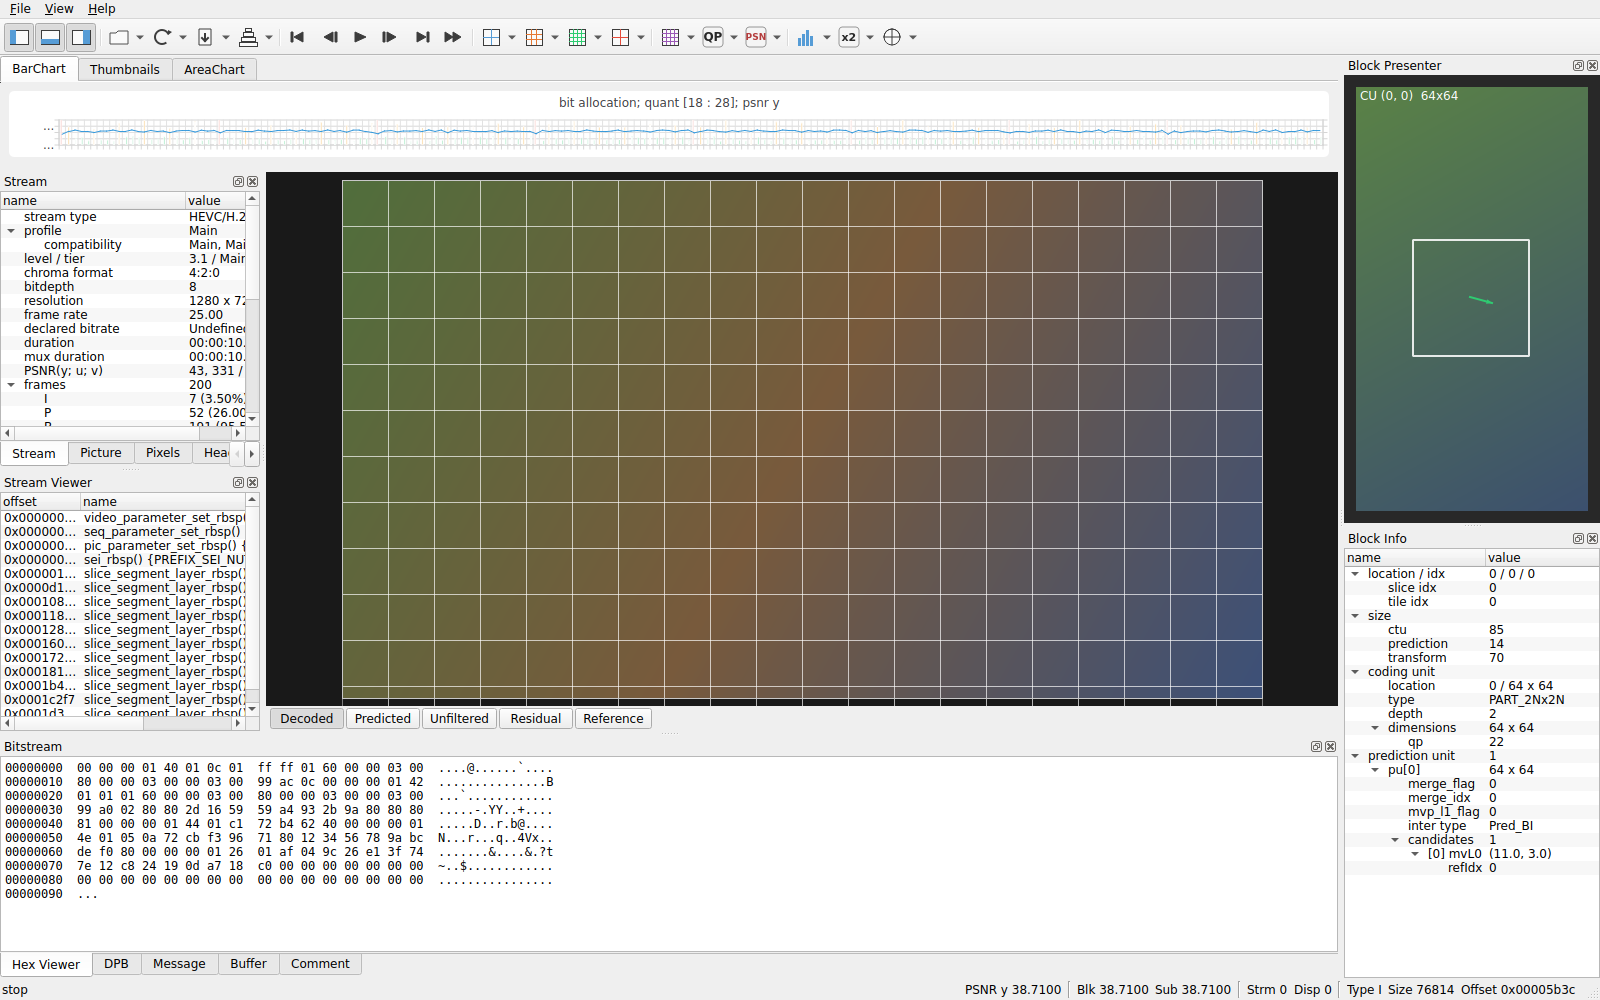
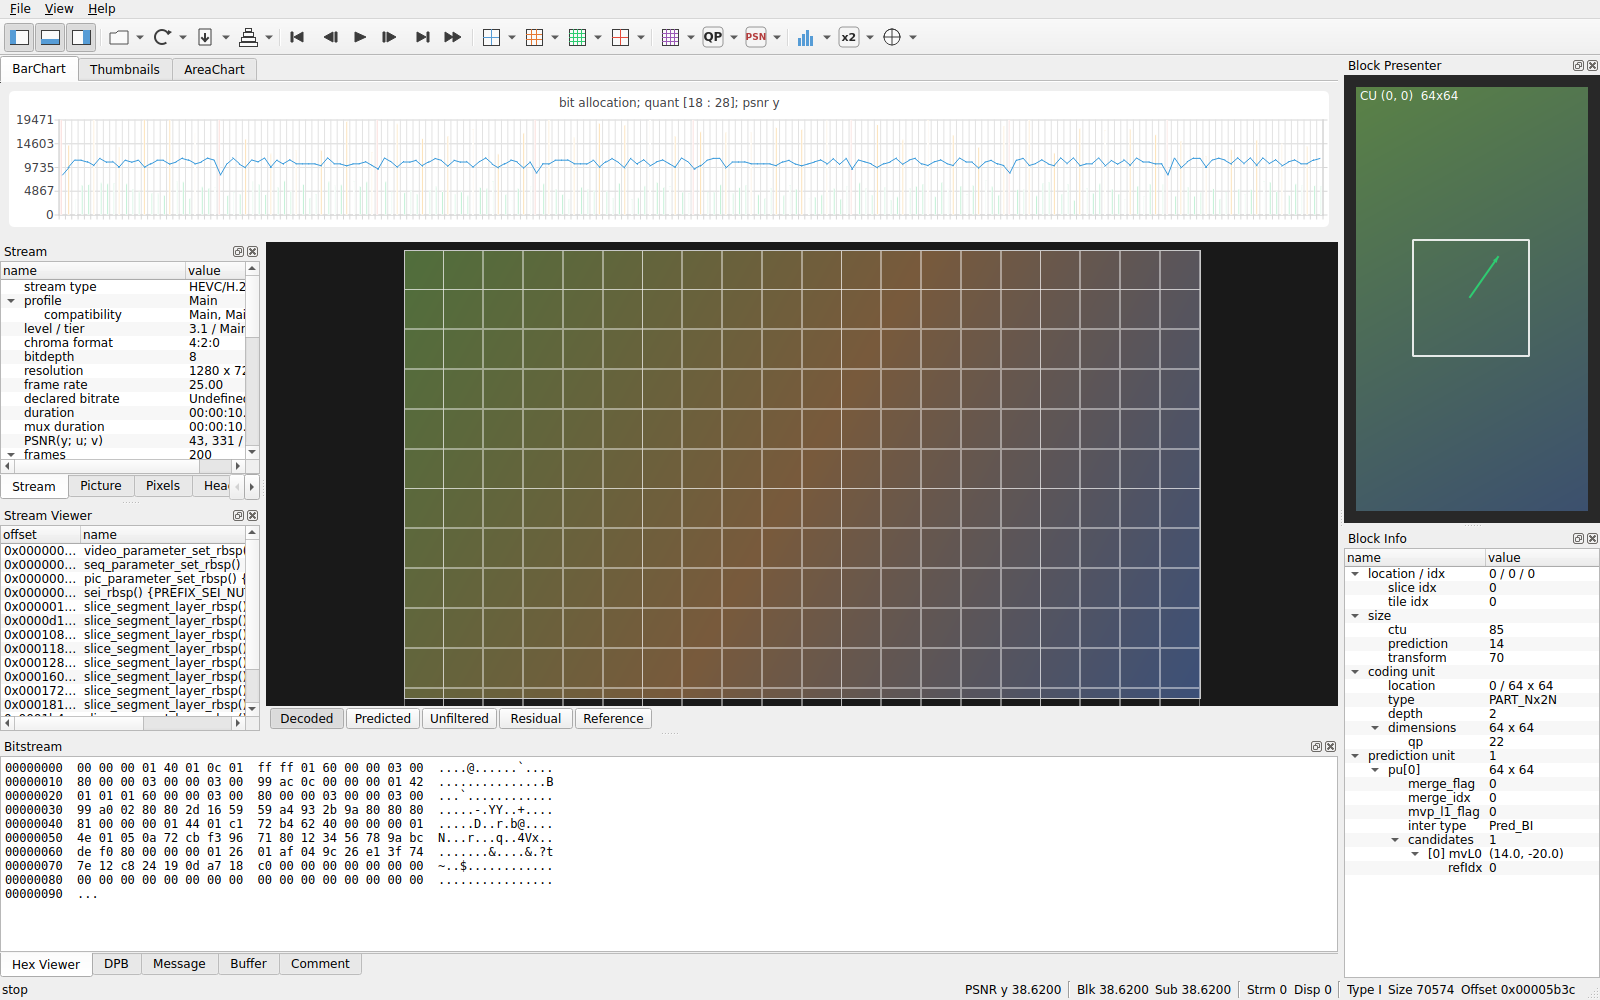
Restore chart dock to 180 px so Y-axis labels render
Previously the dock was clamped to 110 px, which left no room for the
QtCharts Y-axis labels — they collapsed to "..." after the Y range
was clipped to (0, maxSize/4). Bump the fixed height to 180 px so the
0 / 5235 / 10472 / 15707 / 20943 ticks render cleanly while still
keeping the chart strip much smaller than the rest of the window.

https://claude.ai/code/session_01Fk599Kxe4RL25fwFBHgwYp

Changed region(s): [[0.0, 0.093, 0.8438, 0.713], [0.9375, 0.837, 0.9688, 0.868], [0.9375, 0.682, 0.9688, 0.713]]

diff --git a/src/MainWindow.cpp b/src/MainWindow.cpp
@@ -96,14 +96,14 @@ void MainWindow::setupDocks() {
     chartDock->setFeatures(QDockWidget::NoDockWidgetFeatures);
     chartDock->setTitleBarWidget(new QWidget(chartDock));   // hide title bar
     m_chartTabs = new ChartTabWidget(&m_data, chartDock);
-    m_chartTabs->setFixedHeight(110);
+    m_chartTabs->setFixedHeight(180);
     chartDock->setWidget(m_chartTabs);
     chartDock->setAllowedAreas(Qt::TopDockWidgetArea);
     addDockWidget(Qt::TopDockWidgetArea, chartDock);
     // The dock itself is hard-clamped to the same height so it cannot
     // grow when the splitter is resized.
-    chartDock->setFixedHeight(110);
-    resizeDocks({chartDock}, {110}, Qt::Vertical);
+    chartDock->setFixedHeight(180);
+    resizeDocks({chartDock}, {180}, Qt::Vertical);
 
     // --- Left dock (top): Stream panel with 6 tabs -------------------------
     // The "Stream" tab hosts the existing StreamInfoTree. The other five
